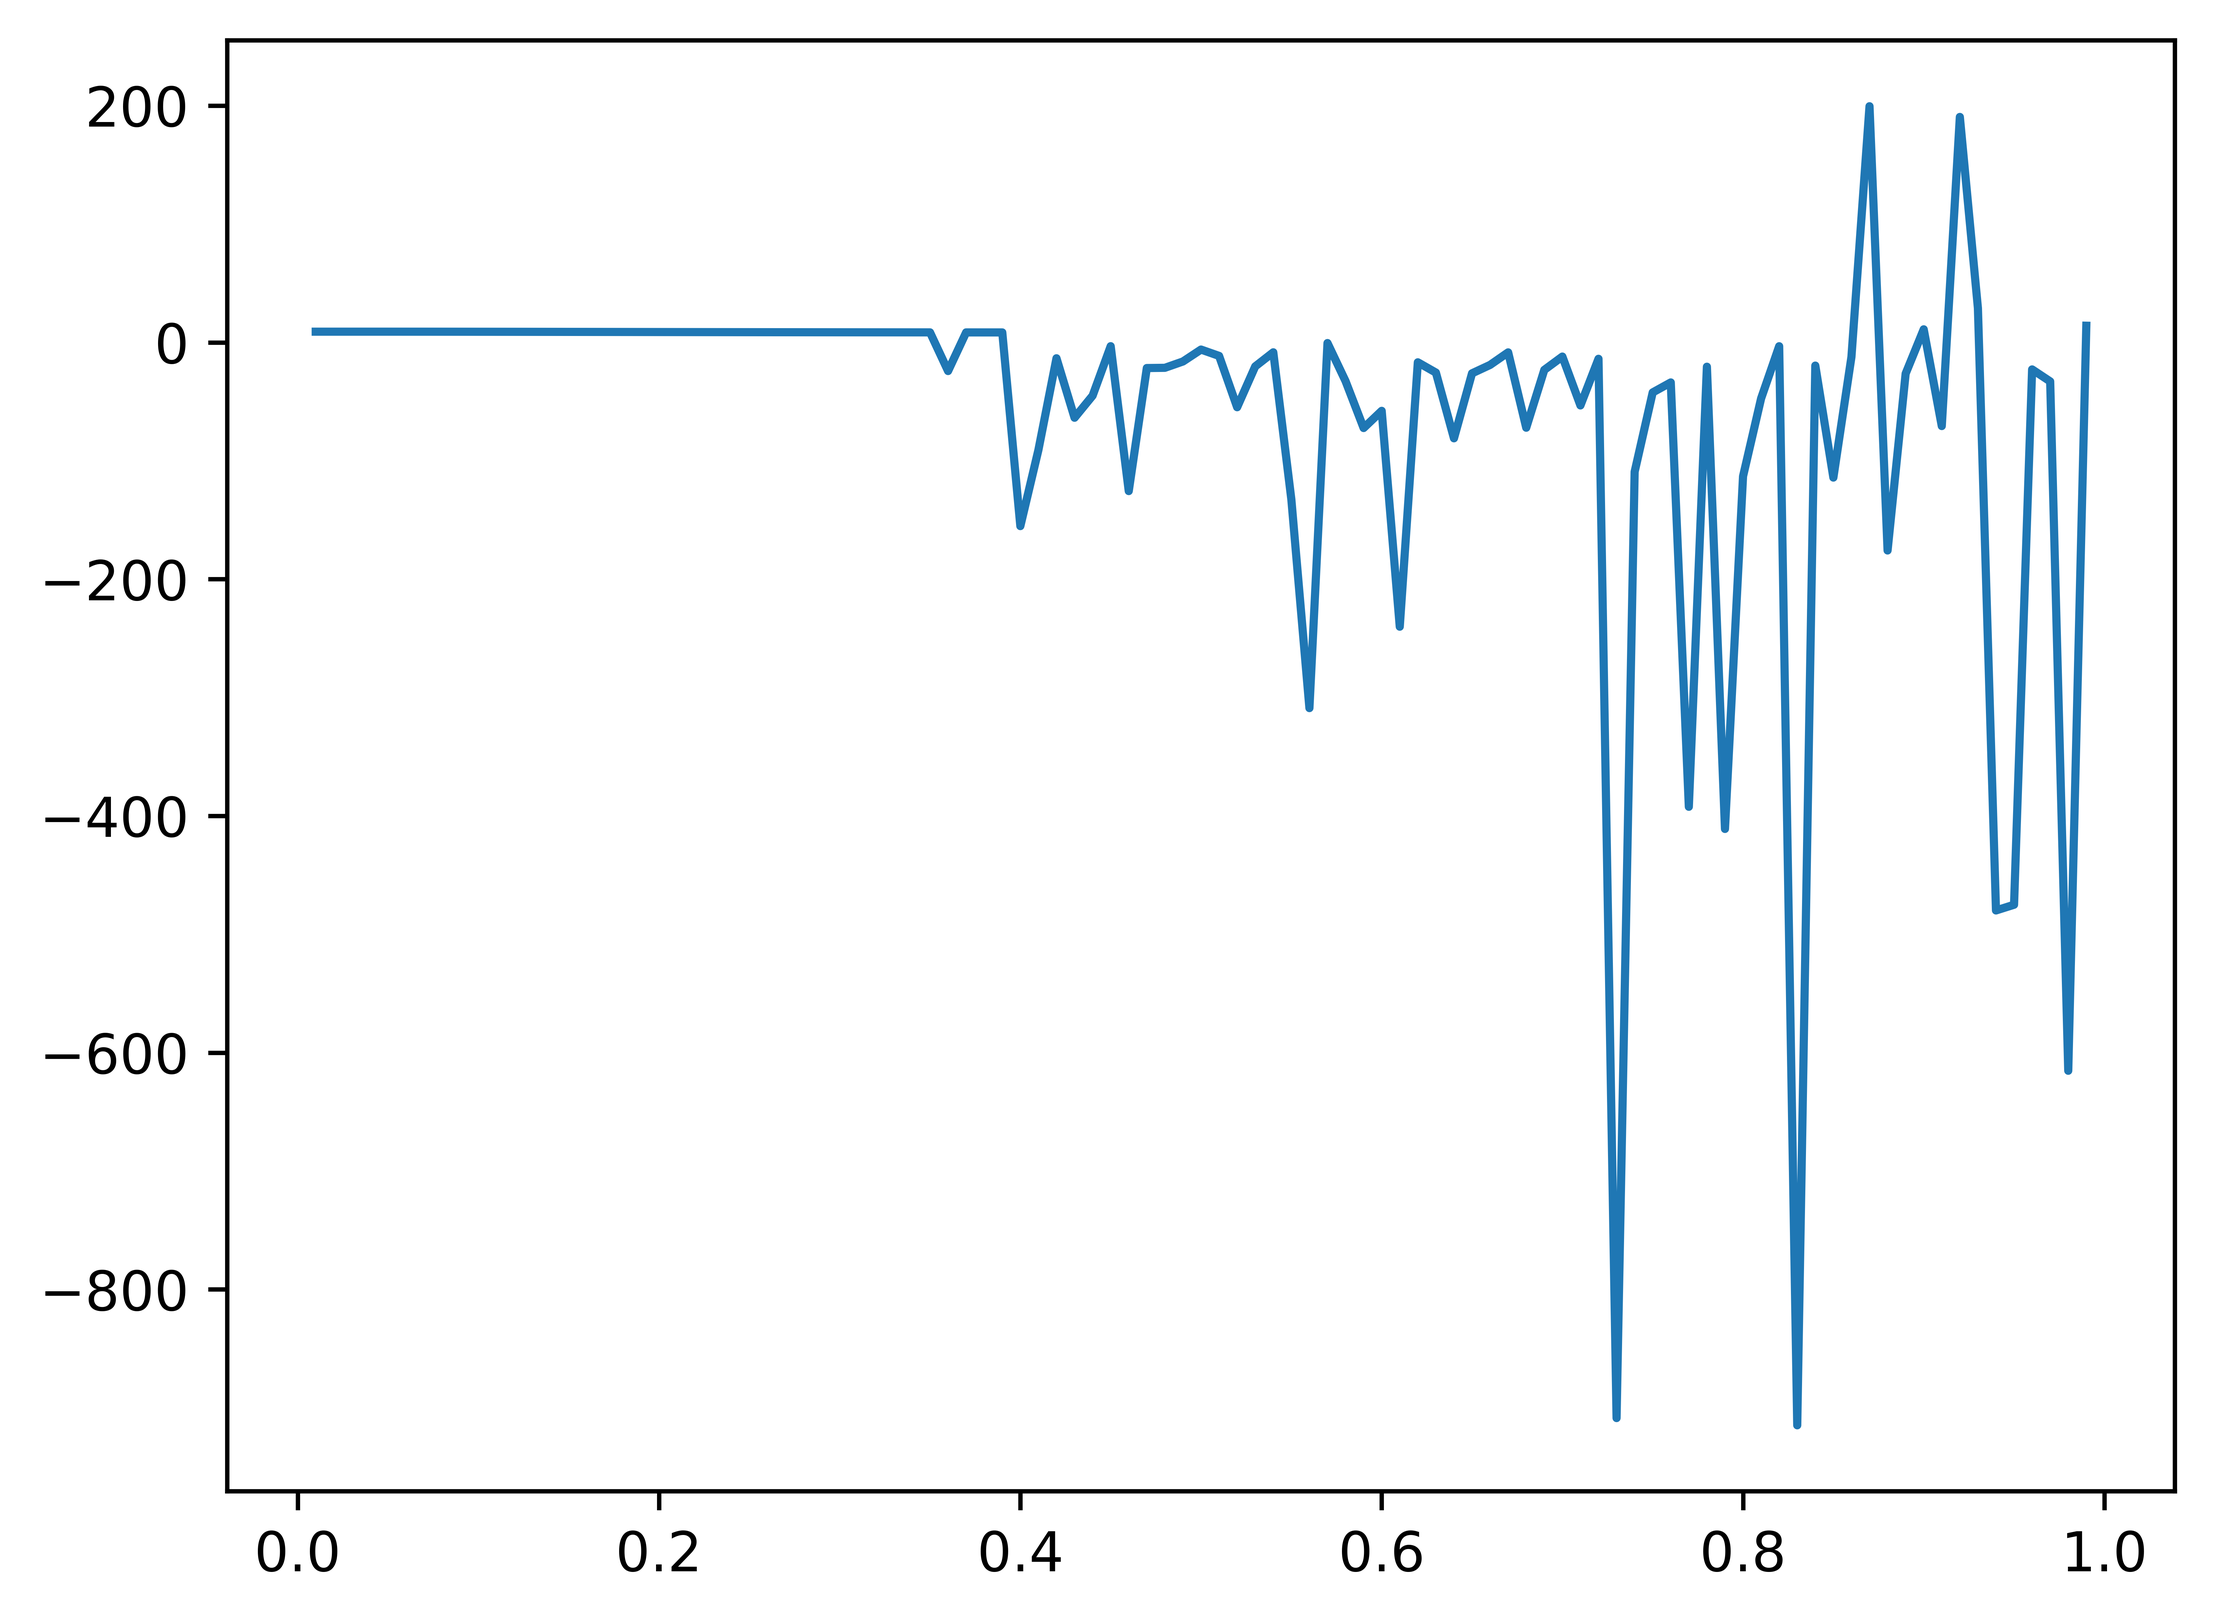
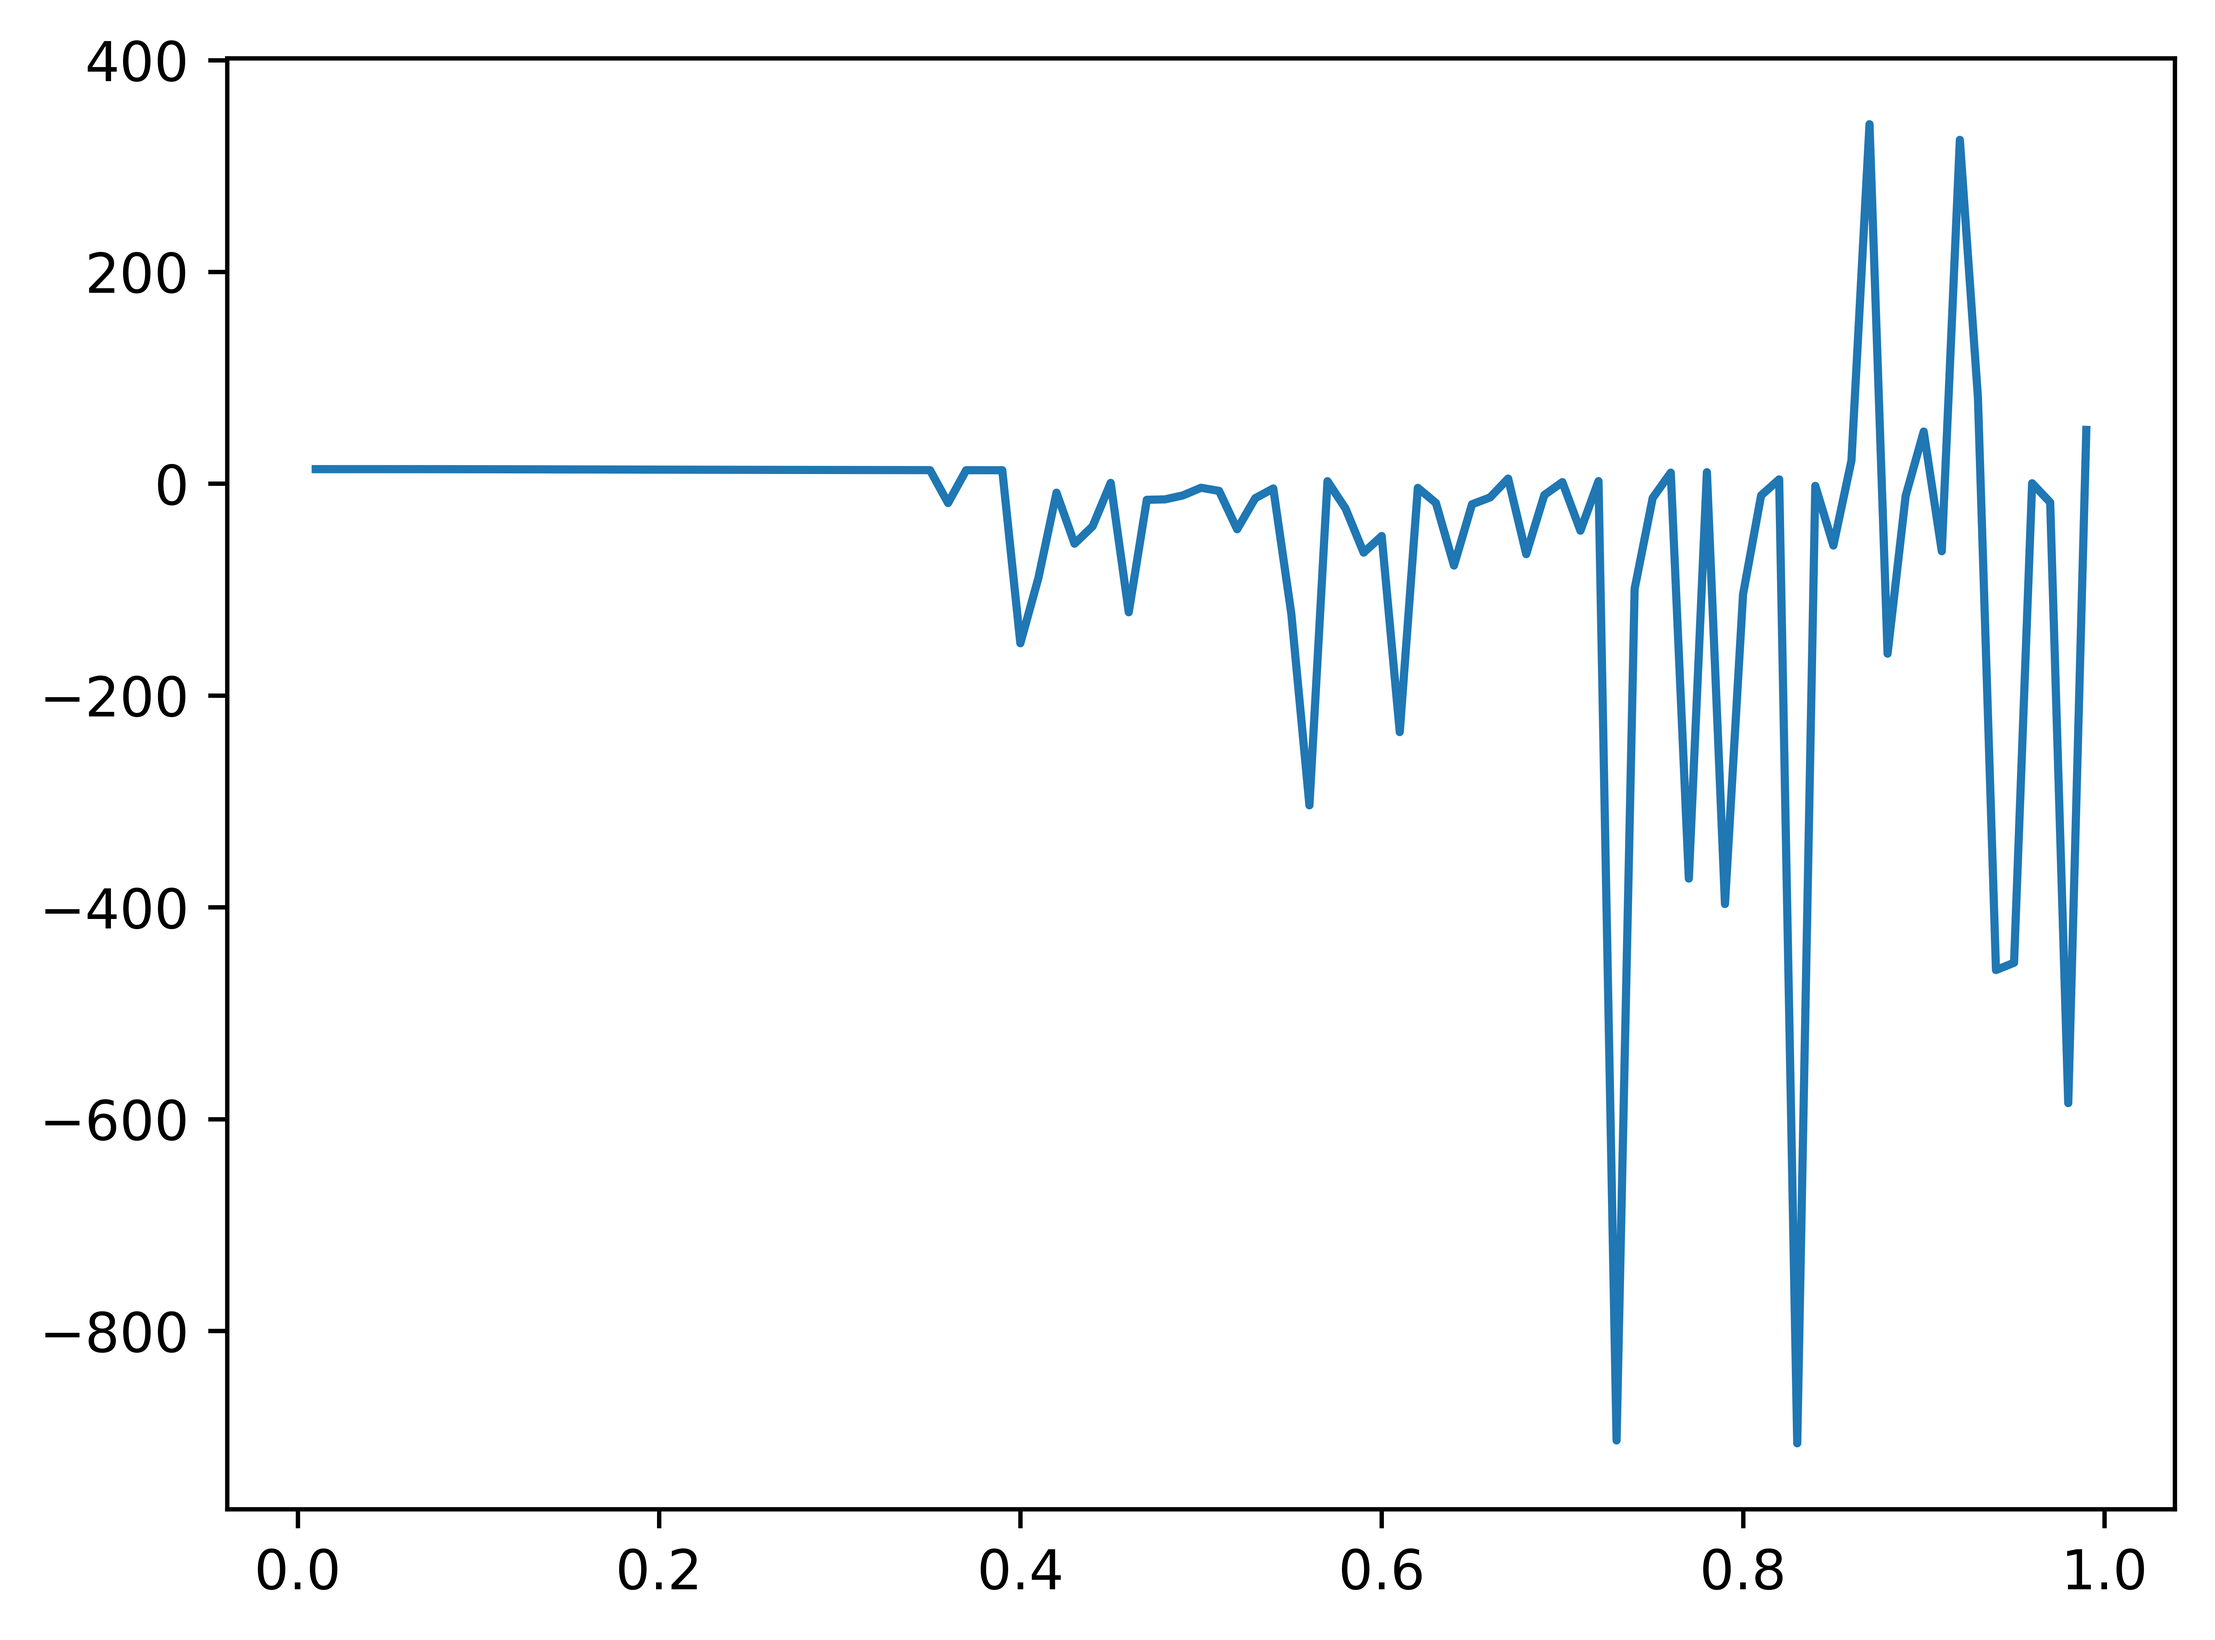
fixed loss severity bug

diff --git a/utils/computation.py b/utils/computation.py
@@ -184,7 +184,7 @@ def calculate_swap_exposures(maturity, coupon, pay_flag=-1, probability=.5, inte
 
 
 def calculate_swap(fixed_rate, maturity, interval=.5, pay_flag=-1, counterparty='boa', self_symbol='citi',
-                   cp_loss_severity=.4, self_loss_severity=.4, sigma=.06):
+                   cp_loss_severity=.6, self_loss_severity=.6, sigma=.06):
     zb_price, discount_set = zb_discount('TREASURY_PRICE', maturity, interval)
     cva_exposures, swap_value = calculate_swap_exposures(maturity, fixed_rate, pay_flag, sigma=sigma)
     dva_exposures, c_swap_value = calculate_swap_exposures(maturity, fixed_rate, -1*pay_flag, sigma=sigma)

diff --git a/main.py b/main.py
@@ -37,5 +37,5 @@ plt.show()
 # bond_price = cp.calculate_bond(.035, 100, .97808)
 # print('price of the 1 bond is ' + str(bond_price))
 # print('different between calculated price and actual price: ' + str(bond_price - 102.5))
-# swap_value = cp.calculate_swap(.02, 5)
-# print(swap_value)
+swap_value = cp.calculate_swap(.02, 5)
+print(swap_value)
